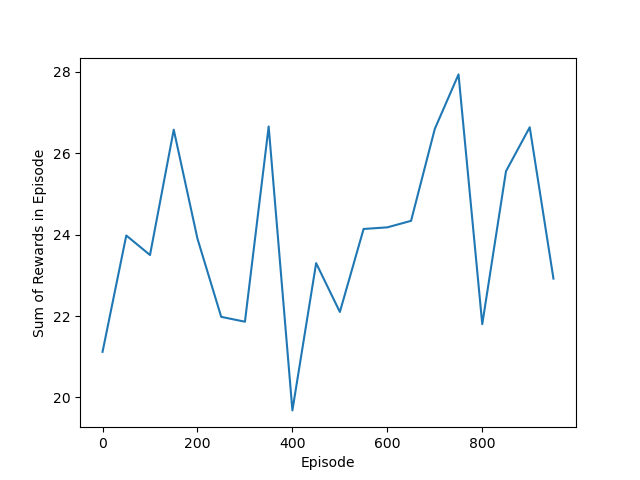
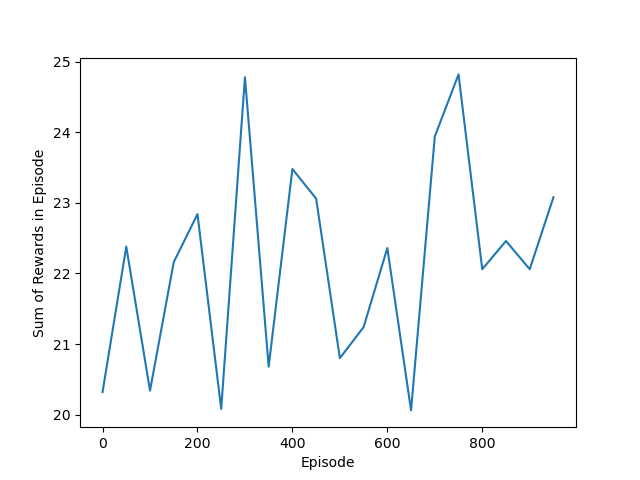
fixed the bugs

diff --git a/rl_qlearning.py b/rl_qlearning.py
@@ -6,31 +6,34 @@ import random
 class Q_learning:
     def __init__(self, env):
         # initialize the environment
-        self.buckets = 5  # number of buckets
-        self.alpha = 0.5  # learning rate
+        self.buckets = 10  # number of buckets
+        self.alpha = 0.1  # learning rate
         self.gamma = 0.9  # discount factor
-        self.epsilon = 0.9  # exploration rate
+        self.epsilon = 1  # exploration rate
         self.action = 2  # number of actions
         self.env = env  # environment
 
         self.episode = 1000  # number of episodes
 
+        self.update = True  # update the Q-table
+
         # initialize the Q-table with random values
         self.q_table = np.random.uniform(
             size=(self.buckets, self.buckets, self.buckets, self.buckets, self.action
                   ))
+        print(self.q_table)
+        print(self.q_table.shape)
 
         self.reward_history = []
 
     # discretize the state
     def discretize(self, continuous_state):
-        continuous_state = [x-0.5 for x in continuous_state]
         state = [0, 0, 0, 0]
         # set up dimension states
-        state[0] = np.linspace(-4.8, 4.8, self.buckets+1)[1:-1]
+        state[0] = np.linspace(-2.4, 2.4, self.buckets+1)[1:-1]
         state[1] = np.linspace(-3.0, 3.0, self.buckets+1)[1:-1]
-        state[2] = np.linspace(-0.418, 0.418, self.buckets+1)[1:-1]
-        state[3] = np.linspace(-2.0, 2.0, self.buckets+1)[1:-1]
+        state[2] = np.linspace(-0.2, 0.2, self.buckets+1)[1:-1]
+        state[3] = np.linspace(-3.0, 3.0, self.buckets+1)[1:-1]
 
         result = [0, 0, 0, 0]
         # discretize the state
@@ -65,8 +68,7 @@ class Q_learning:
             rewards = []
             state, _ = self.env.reset()
             state = list(state)
-            action = self.choose_action(state)
-            print("current episode {}".format(current_episode))
+            # print("current episode {}".format(current_episode))
             end = False
             while not end:
                 stateindex = self.discretize(state)  # discretize state
@@ -77,21 +79,24 @@ class Q_learning:
                 statenext = list(statenext)  # list state
                 statenextindex =\
                     self.discretize(statenext)  # know the index of state
+                print(statenextindex)
                 # return the index of the maximum value
                 QMaxOfNext = np.max(self.q_table[statenextindex])
+                # print("QMaxOfNext {}".format(self.q_table[statenextindex]))
 
                 # update the Q-table
-                if not end:
-                    error = reward + self.gamma * QMaxOfNext -\
-                        self.q_table[stateindex][action_a]
-                    self.q_table[stateindex][action_a] =\
-                        self.q_table[stateindex][action_a] + \
-                        self.alpha * error
-                else:
-                    error = reward - self.q_table[stateindex][action_a]
-                    self.q_table[stateindex][action_a] =\
-                        self.q_table[stateindex][action_a] + \
-                        self.alpha * error
+                if self.update == True:
+                    if not end:
+                        error = reward + self.gamma * QMaxOfNext -\
+                            self.q_table[stateindex][action_a]
+                        self.q_table[stateindex][action_a] =\
+                            self.q_table[stateindex][action_a] + \
+                            self.alpha * error
+                    else:
+                        error = reward - self.q_table[stateindex][action_a]
+                        self.q_table[stateindex][action_a] =\
+                            self.q_table[stateindex][action_a] + \
+                            self.alpha * error
                 state = statenext
-            print("reward {}".format(sum(rewards)))
+            # print("reward {}".format(sum(rewards)))
             self.reward_history.append(sum(rewards))

diff --git a/problem3.py b/problem3.py
@@ -19,3 +19,20 @@ if __name__ == '__main__':
     plt.ylabel('Sum of Rewards in Episode')
     # save the figure
     plt.savefig('convergence.png')
+
+    # change the epsilon
+    rl_qlearning.update = False
+    rl_qlearning.epsilon = 0
+    rl_qlearning.reward_history = []
+    rl_qlearning.simulate()
+    y = rl_qlearning.reward_history
+
+    # plot the figure
+    y = [sum(y[i:i+50])/50 for i in range(0, len(y), 50)]
+    x = range(len(y))
+    x = [i*50 for i in x]
+    plt.plot(x, y)
+    plt.xlabel('Episode')
+    plt.ylabel('Sum of Rewards in Episode')
+    # save the figure
+    plt.savefig('convergence after.png')
